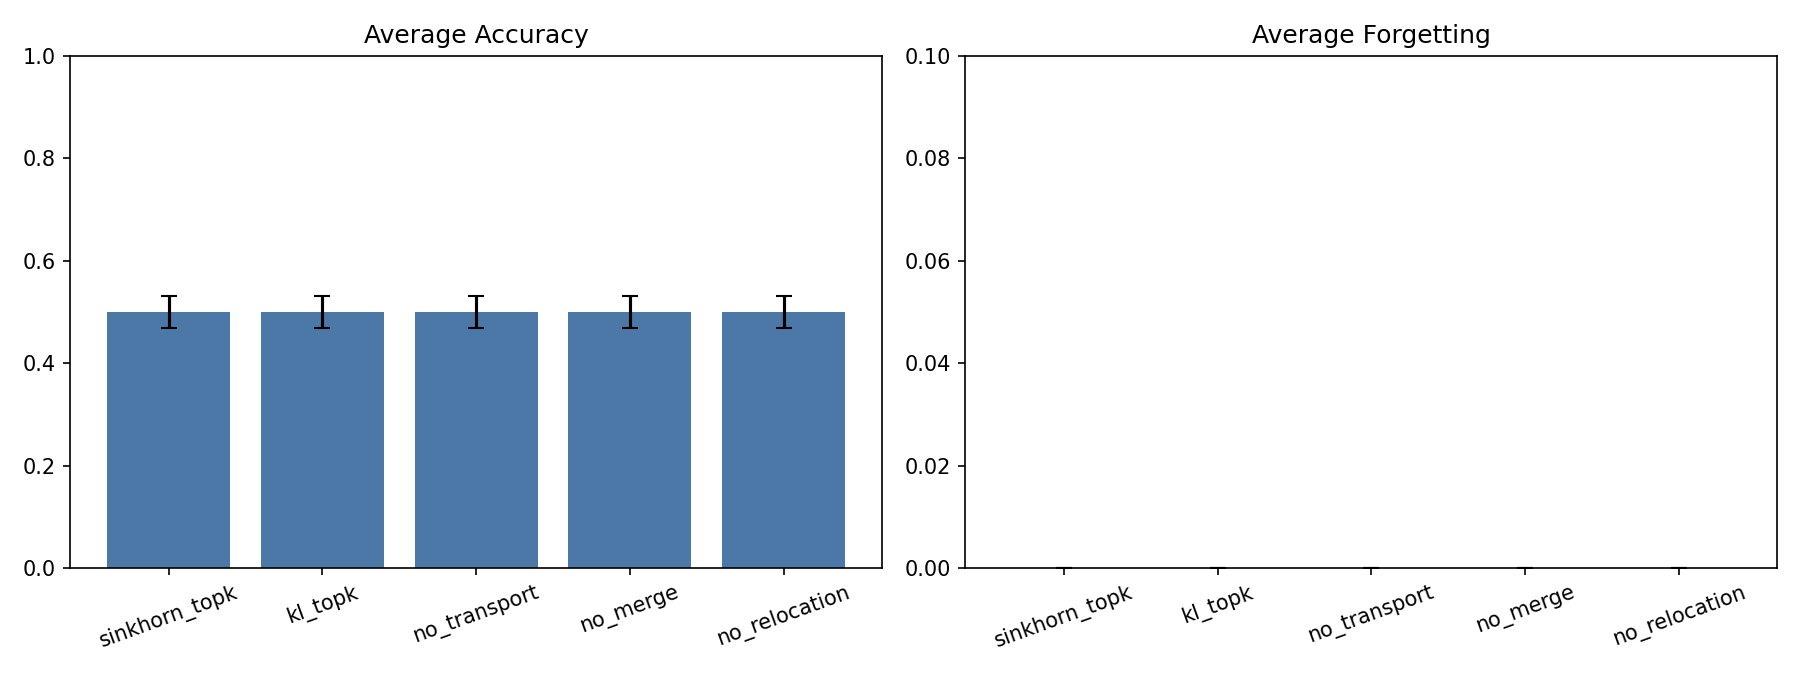
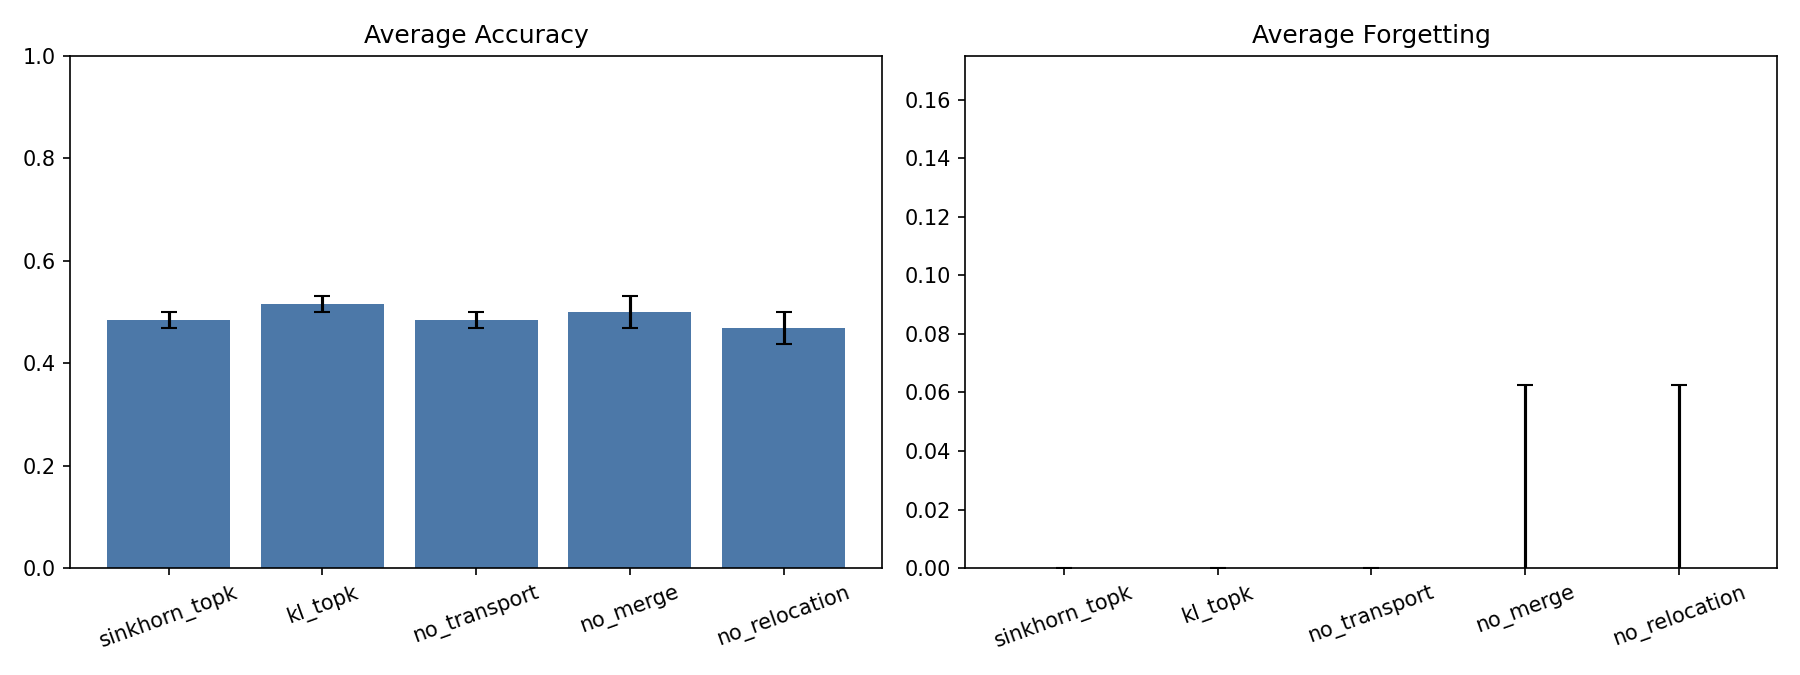
fix(paper): define \\argmin operator; commit regenerated operator ablation artifacts

diff --git a/paper/continual_asam.tex b/paper/continual_asam.tex
@@ -39,6 +39,7 @@
 \DeclareMathOperator{\Sinkhorn}{Sinkhorn}
 \DeclareMathOperator{\KL}{KL}
 \DeclareMathOperator{\TopK}{TopK}
+\DeclareMathOperator{\argmin}{arg\,min}
 
 % Title
 \title{\textbf{Continual ASAM: Prototype-Routed Sparse Attention\\with Capacity-Constrained Optimal Transport\\and Transport-Aware Lifecycle Control}}

diff --git a/experiments/paper_suite/continual_operator_ablation_report.md b/experiments/paper_suite/continual_operator_ablation_report.md
@@ -3,18 +3,18 @@
 - Dataset: `split_ag_news`
 - Number of operator settings: `5`
 - Seeds per setting: `2`
-- Best average accuracy: `sinkhorn_topk (0.5000)`
-- Lowest average forgetting: `sinkhorn_topk (0.0000)`
+- Best average accuracy: `kl_topk (0.5156)`
+- Lowest average forgetting: `kl_topk (-0.1562)`
 
 ## Aggregated Table
 
 | Strategy | Routing | Transport W | Merge Usage | Relocation | Accuracy (mean±std) | Forgetting (mean±std) | BWT (mean±std) | Final Gap (mean±std) | Final Transport (mean±std) | Runs |
 | --- | --- | ---: | ---: | ---: | ---: | ---: | ---: | ---: | ---: | ---: |
-| sinkhorn_topk | sinkhorn_topk | 0.05 | 0.10 | 0.75 | 0.5000±0.0312 | 0.0000±0.0000 | 0.0000±0.0000 | 0.0000±0.0000 | 0.0642±0.0093 | 2 |
-| kl_topk | kl_topk | 0.05 | 0.10 | 0.75 | 0.5000±0.0312 | 0.0000±0.0000 | 0.0000±0.0000 | 0.0034±0.0003 | 0.0643±0.0089 | 2 |
-| no_transport | sinkhorn_topk | 0.00 | 0.10 | 0.75 | 0.5000±0.0312 | 0.0000±0.0000 | 0.0000±0.0000 | 0.0000±0.0000 | 0.0655±0.0097 | 2 |
-| no_merge | sinkhorn_topk | 0.05 | 0.00 | 0.75 | 0.5000±0.0312 | 0.0000±0.0000 | 0.0000±0.0000 | 0.0000±0.0000 | 0.0642±0.0093 | 2 |
-| no_relocation | sinkhorn_topk | 0.05 | 0.10 | 0.00 | 0.5000±0.0312 | 0.0000±0.0000 | 0.0000±0.0000 | 0.0000±0.0000 | 0.0642±0.0093 | 2 |
+| sinkhorn_topk | sinkhorn_topk | 0.05 | 0.10 | 0.75 | 0.4844±0.0156 | -0.0938±0.0938 | 0.0938±0.0938 | 0.0195±0.0008 | 0.0659±0.0099 | 2 |
+| kl_topk | kl_topk | 0.05 | 0.10 | 0.75 | 0.5156±0.0156 | -0.1562±0.1562 | 0.1562±0.1562 | 0.0130±0.0046 | 0.0671±0.0099 | 2 |
+| no_transport | sinkhorn_topk | 0.00 | 0.10 | 0.75 | 0.4844±0.0156 | -0.0938±0.0938 | 0.0938±0.0938 | 0.0195±0.0008 | 0.0673±0.0111 | 2 |
+| no_merge | sinkhorn_topk | 0.05 | 0.00 | 0.75 | 0.5000±0.0312 | -0.0625±0.1250 | 0.0625±0.1250 | 0.0215±0.0014 | 0.0639±0.0077 | 2 |
+| no_relocation | sinkhorn_topk | 0.05 | 0.10 | 0.00 | 0.4688±0.0312 | -0.0312±0.0938 | 0.0312±0.0938 | 0.0210±0.0003 | 0.0658±0.0111 | 2 |
 
 ## Notes
 

diff --git a/experiments/paper_suite/continual_operator_ablation_table.md b/experiments/paper_suite/continual_operator_ablation_table.md
@@ -1,7 +1,7 @@
 | Strategy | Routing | Transport W | Merge Usage | Relocation | Accuracy (mean±std) | Forgetting (mean±std) | BWT (mean±std) | Final Gap (mean±std) | Final Transport (mean±std) | Runs |
 | --- | --- | ---: | ---: | ---: | ---: | ---: | ---: | ---: | ---: | ---: |
-| sinkhorn_topk | sinkhorn_topk | 0.05 | 0.10 | 0.75 | 0.5000±0.0312 | 0.0000±0.0000 | 0.0000±0.0000 | 0.0000±0.0000 | 0.0642±0.0093 | 2 |
-| kl_topk | kl_topk | 0.05 | 0.10 | 0.75 | 0.5000±0.0312 | 0.0000±0.0000 | 0.0000±0.0000 | 0.0034±0.0003 | 0.0643±0.0089 | 2 |
-| no_transport | sinkhorn_topk | 0.00 | 0.10 | 0.75 | 0.5000±0.0312 | 0.0000±0.0000 | 0.0000±0.0000 | 0.0000±0.0000 | 0.0655±0.0097 | 2 |
-| no_merge | sinkhorn_topk | 0.05 | 0.00 | 0.75 | 0.5000±0.0312 | 0.0000±0.0000 | 0.0000±0.0000 | 0.0000±0.0000 | 0.0642±0.0093 | 2 |
-| no_relocation | sinkhorn_topk | 0.05 | 0.10 | 0.00 | 0.5000±0.0312 | 0.0000±0.0000 | 0.0000±0.0000 | 0.0000±0.0000 | 0.0642±0.0093 | 2 |
+| sinkhorn_topk | sinkhorn_topk | 0.05 | 0.10 | 0.75 | 0.4844±0.0156 | -0.0938±0.0938 | 0.0938±0.0938 | 0.0195±0.0008 | 0.0659±0.0099 | 2 |
+| kl_topk | kl_topk | 0.05 | 0.10 | 0.75 | 0.5156±0.0156 | -0.1562±0.1562 | 0.1562±0.1562 | 0.0130±0.0046 | 0.0671±0.0099 | 2 |
+| no_transport | sinkhorn_topk | 0.00 | 0.10 | 0.75 | 0.4844±0.0156 | -0.0938±0.0938 | 0.0938±0.0938 | 0.0195±0.0008 | 0.0673±0.0111 | 2 |
+| no_merge | sinkhorn_topk | 0.05 | 0.00 | 0.75 | 0.5000±0.0312 | -0.0625±0.1250 | 0.0625±0.1250 | 0.0215±0.0014 | 0.0639±0.0077 | 2 |
+| no_relocation | sinkhorn_topk | 0.05 | 0.10 | 0.00 | 0.4688±0.0312 | -0.0312±0.0938 | 0.0312±0.0938 | 0.0210±0.0003 | 0.0658±0.0111 | 2 |
